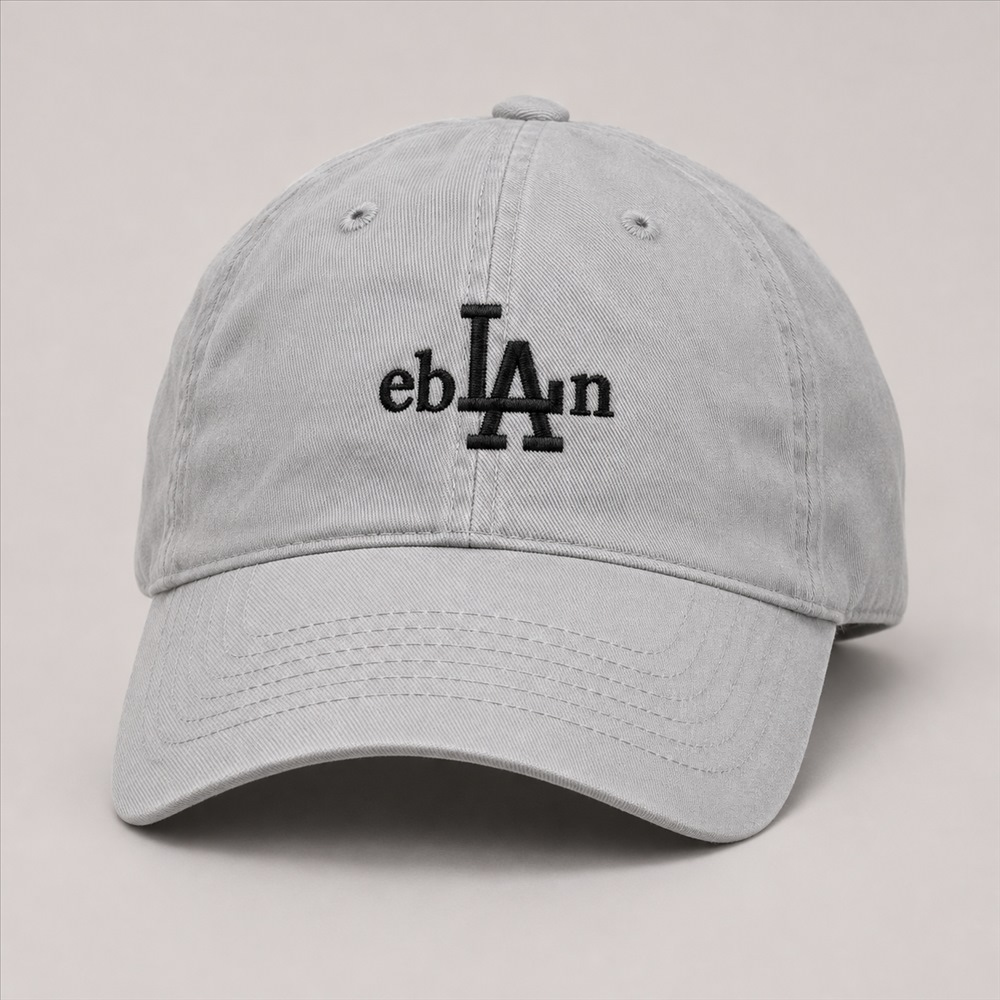
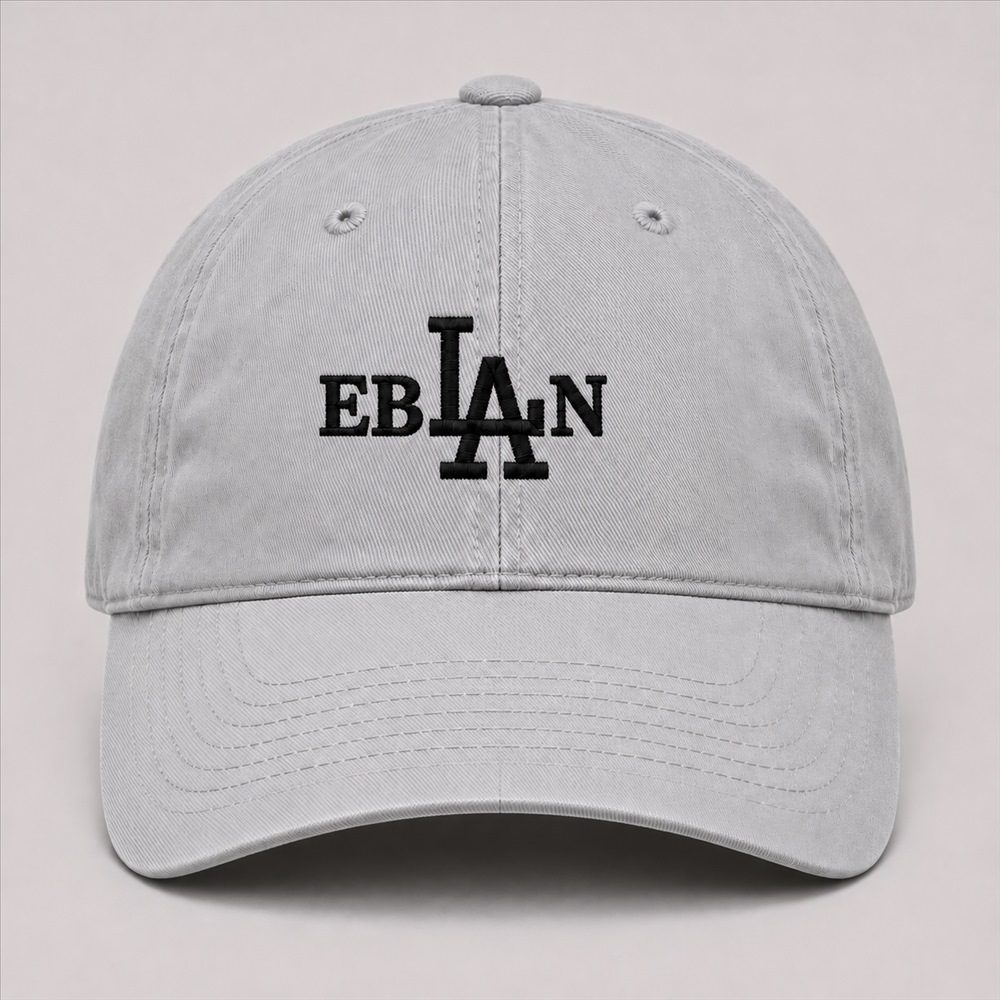
Center the LA monogram and capitalize EB and N

diff --git a/index.html b/index.html
@@ -108,10 +108,10 @@
             <figcaption lang="en">minet</figcaption>
           </figure>
           <figure class="merch-card">
-            <a href="./merch-eblan.jpg" aria-label="Открыть карточку кепки eblan">
-              <img src="./merch-eblan.jpg" width="1000" height="1000" loading="lazy" alt="Светло-серая кепка eblan. В центре тёмной вышивки переплетены буквы LA.">
+            <a href="./merch-eblan.jpg?v=uppercase" aria-label="Открыть карточку кепки EBLAN">
+              <img src="./merch-eblan.jpg?v=uppercase" width="1000" height="1000" loading="lazy" alt="Светло-серая кепка с вышивкой EBLAN. Монограмма LA расположена по центру переднего шва.">
             </a>
-            <figcaption lang="en">eblan</figcaption>
+            <figcaption lang="en">EBLAN</figcaption>
           </figure>
         </div>
       </div>
